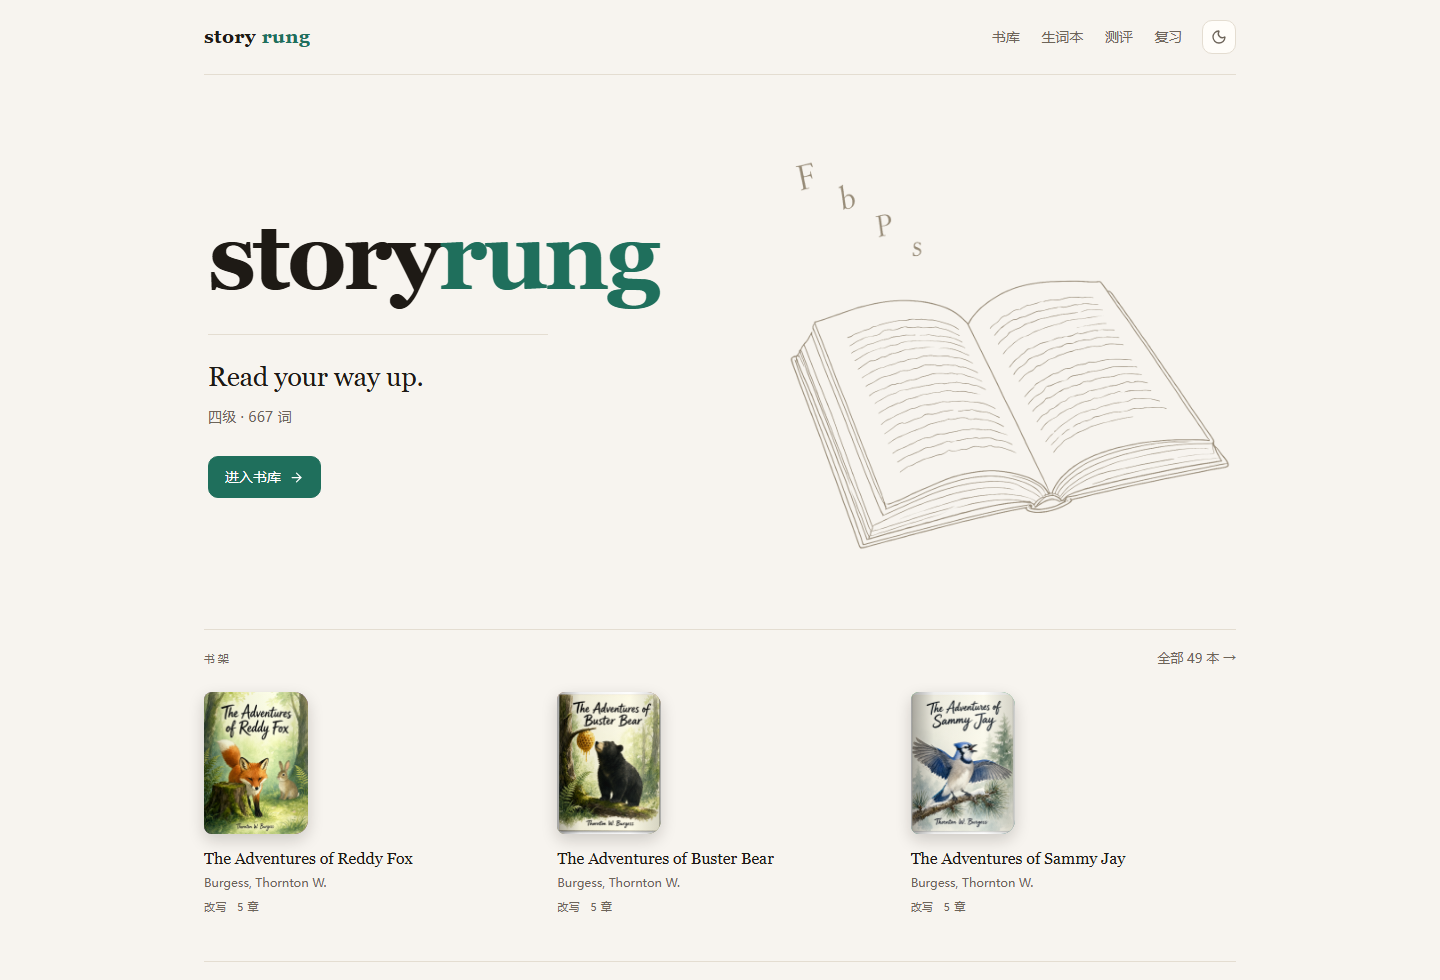
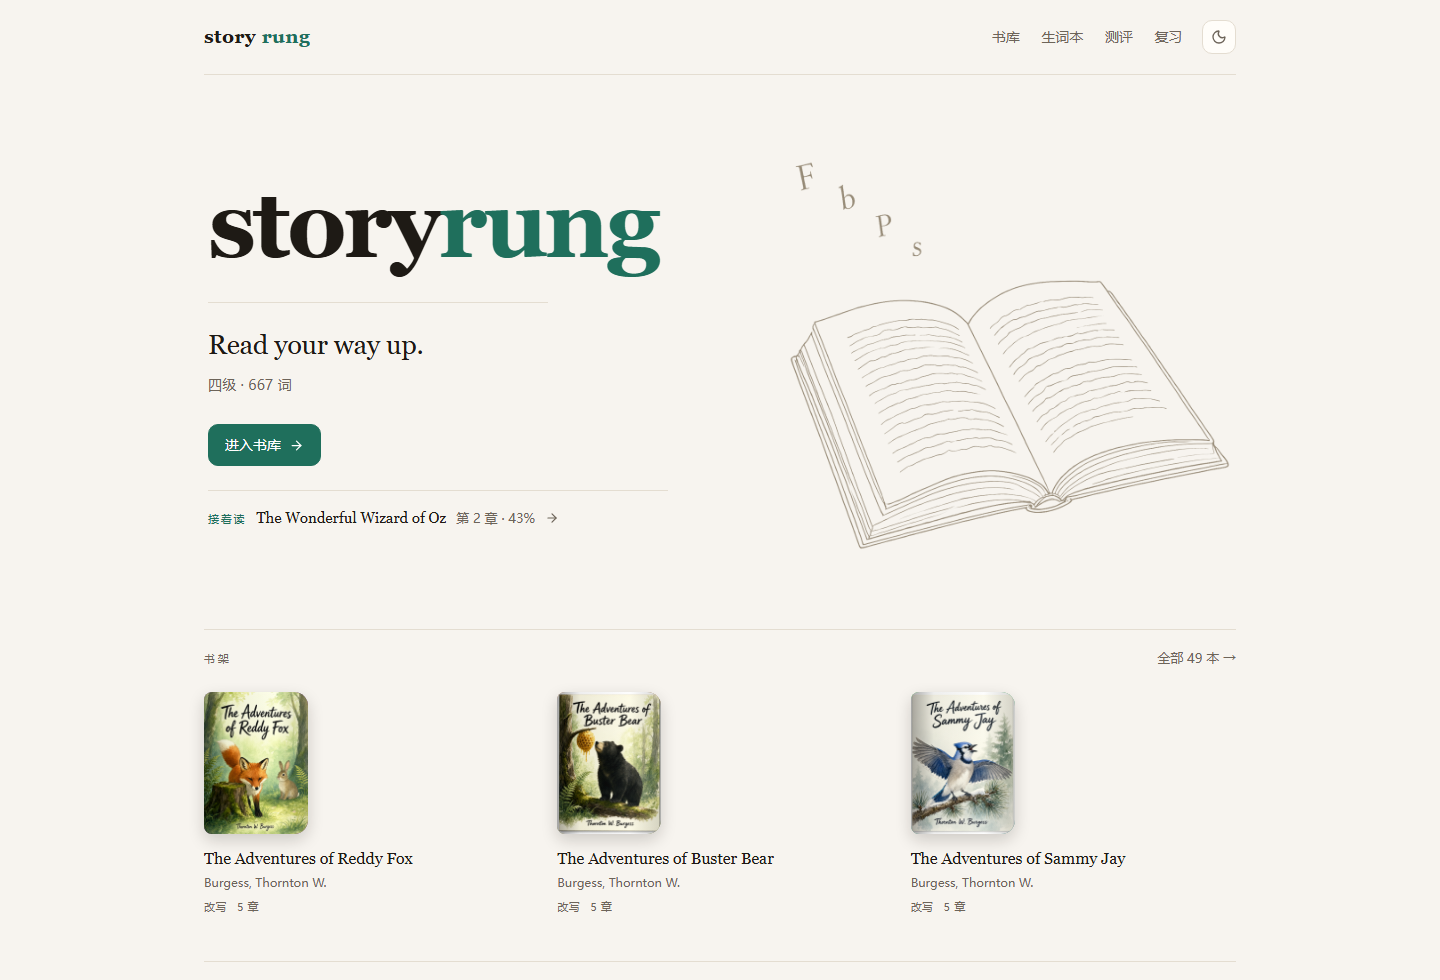
feat(web): 首页加「接着读」，回访一步回到上次的句子
- ChapterProgress 加 updatedAt（@updatedAt），用它找最近读的一章
- library.ts 新增 getContinueReading()：position>0 或已读完才算「读过」，
  已读完的章节指向下一章，最后一章读完回到书详情
- 首页 hero 的 CTA 下方加一行 .home-resume，显示书名、章号与百分比
- README 与首页截图同步更新

Changed region(s): [[0.125, 0.2143, 0.4688, 0.551]]

diff --git a/apps/web/app/page.tsx b/apps/web/app/page.tsx
@@ -5,7 +5,7 @@ import BookCover from "@/components/BookCover";
 import HeroArt from "@/components/HeroArt";
 import { prisma } from "@/lib/db";
 import { coverUrl } from "@/lib/generated-art";
-import { listLibrary } from "@/lib/services/library";
+import { listLibrary, getContinueReading } from "@/lib/services/library";
 import { effectiveVocabSize, getDemoUser, getKnownSet } from "@/lib/services/user";
 
 export const dynamic = "force-dynamic";
@@ -15,12 +15,13 @@ const LEVEL_LABEL: Record<string, string> = { cet4: "四级", cet6: "六级", to
 export default async function HomePage() {
   const user = await getDemoUser();
   const known = await getKnownSet(user.id, effectiveVocabSize(user));
-  const [readable, challenges, dueCards, vocabCount, finished] = await Promise.all([
+  const [readable, challenges, dueCards, vocabCount, finished, resume] = await Promise.all([
     listLibrary(user.id, known, { admission: "pass" }),
     listLibrary(user.id, known, { admission: "challenge" }),
     prisma.reviewCard.count({ where: { userId: user.id, dueAt: { lte: new Date() } } }),
     prisma.userVocabState.count({ where: { userId: user.id } }),
     prisma.chapterProgress.count({ where: { userId: user.id, completedAt: { not: null } } }),
+    getContinueReading(user.id),
   ]);
   const shelf = [...readable, ...challenges].slice(0, 3);
   const bookCount = readable.length + challenges.length;
@@ -54,6 +55,23 @@ export default async function HomePage() {
               </>
             )}
           </div>
+
+          {resume && (
+            <Link
+              href={resume.atEnd ? `/book/${resume.bookSlug}` : `/book/${resume.bookSlug}/${resume.chapterIndex}/read`}
+              className="home-resume"
+            >
+              <span className="home-resume-label">
+                {resume.atEnd ? "已读完" : resume.finished ? "读下一章" : "接着读"}
+              </span>
+              <span className="home-resume-title">{resume.bookTitle}</span>
+              <span className="home-resume-meta">
+                {resume.atEnd ? "全书读完" : `第 ${resume.chapterIndex} 章`}
+                {!resume.atEnd && !resume.finished ? ` · ${resume.percent}%` : ""}
+              </span>
+              <ArrowRight size={14} />
+            </Link>
+          )}
         </div>
         <div className="home-art">
           <HeroArt />

diff --git a/apps/web/lib/services/library.ts b/apps/web/lib/services/library.ts
@@ -94,6 +94,70 @@ export async function listLibrary(
   });
 }
 
+export interface ContinueReading {
+  bookSlug: string;
+  bookTitle: string;
+  chapterIndex: number;
+  chapterTitle: string;
+  /** 本章句子数，用来算读了多少 */
+  sentenceCount: number;
+  position: number;
+  percent: number;
+  /** 这一章已经读完：链接指下一章 */
+  finished: boolean;
+  /** 读完最后一章时为 true，链接回到书详情 */
+  atEnd: boolean;
+}
+
+/**
+ * 首页「接着读」：找这个用户最近动过的一章。
+ * 只认真的读过（position > 0）或标记读完了的记录，避免刚做完预习就被当成在读。
+ */
+export async function getContinueReading(userId: string): Promise<ContinueReading | null> {
+  const row = await prisma.chapterProgress.findFirst({
+    where: {
+      userId,
+      OR: [{ position: { gt: 0 } }, { completedAt: { not: null } }],
+    },
+    orderBy: { updatedAt: "desc" },
+    include: { chapter: { include: { book: true } } },
+  });
+  if (!row) return null;
+
+  const { chapter } = row;
+  const finished = Boolean(row.completedAt);
+  if (!finished) {
+    return {
+      bookSlug: chapter.book.slug,
+      bookTitle: chapter.book.title,
+      chapterIndex: chapter.index,
+      chapterTitle: chapter.title,
+      sentenceCount: chapter.sentenceCount,
+      position: row.position,
+      percent: Math.min(99, Math.round(((row.position + 1) / Math.max(1, chapter.sentenceCount)) * 100)),
+      finished: false,
+      atEnd: false,
+    };
+  }
+
+  // 读完了：优先指下一章；已经是最后一章就回书详情
+  const next = await prisma.chapter.findFirst({
+    where: { bookId: chapter.bookId, index: { gt: chapter.index } },
+    orderBy: { index: "asc" },
+  });
+  return {
+    bookSlug: chapter.book.slug,
+    bookTitle: chapter.book.title,
+    chapterIndex: next?.index ?? chapter.index,
+    chapterTitle: next?.title ?? chapter.title,
+    sentenceCount: next?.sentenceCount ?? chapter.sentenceCount,
+    position: 0,
+    percent: finished && !next ? 100 : 0,
+    finished: true,
+    atEnd: !next,
+  };
+}
+
 export async function getBookDetail(
   slug: string,
   userId: string,

diff --git a/apps/web/app/theme.css b/apps/web/app/theme.css
@@ -156,6 +156,46 @@ body {
   margin-top: 28px;
 }
 
+.home-resume {
+  display: flex;
+  flex-wrap: wrap;
+  align-items: baseline;
+  gap: 10px;
+  margin-top: 24px;
+  padding-top: 15px;
+  max-width: 460px;
+  border-top: 1px solid var(--line);
+  color: var(--muted);
+  font-size: 13px;
+}
+
+.home-resume-label {
+  color: var(--accent);
+  font-family: var(--sans);
+  font-size: 11px;
+  letter-spacing: 0.16em;
+}
+
+.home-resume-title {
+  color: var(--ink);
+  font-family: var(--serif);
+  font-size: 15px;
+}
+
+.home-resume:hover .home-resume-title {
+  text-decoration: underline;
+  text-underline-offset: 3px;
+}
+
+.home-resume-meta {
+  font-variant-numeric: tabular-nums;
+}
+
+.home-resume svg {
+  align-self: center;
+  color: var(--muted);
+}
+
 .home-art {
   justify-self: end;
   width: 100%;

diff --git a/README.md b/README.md
@@ -13,7 +13,7 @@
 
 ## 界面
 
-首页：大字标 + 细线 + 手绘线描书，下面是书架三本和无框统计条。
+首页：大字标 + 细线 + 手绘线描书，下面是书架三本和无框统计条。读过书的访客会在按钮下方看到「接着读 · 书名 · 第 N 章 · 43%」，点一下直接回到上次的句子。
 
 ![首页（桌面）](docs/screenshots/home-desktop.png)
 
